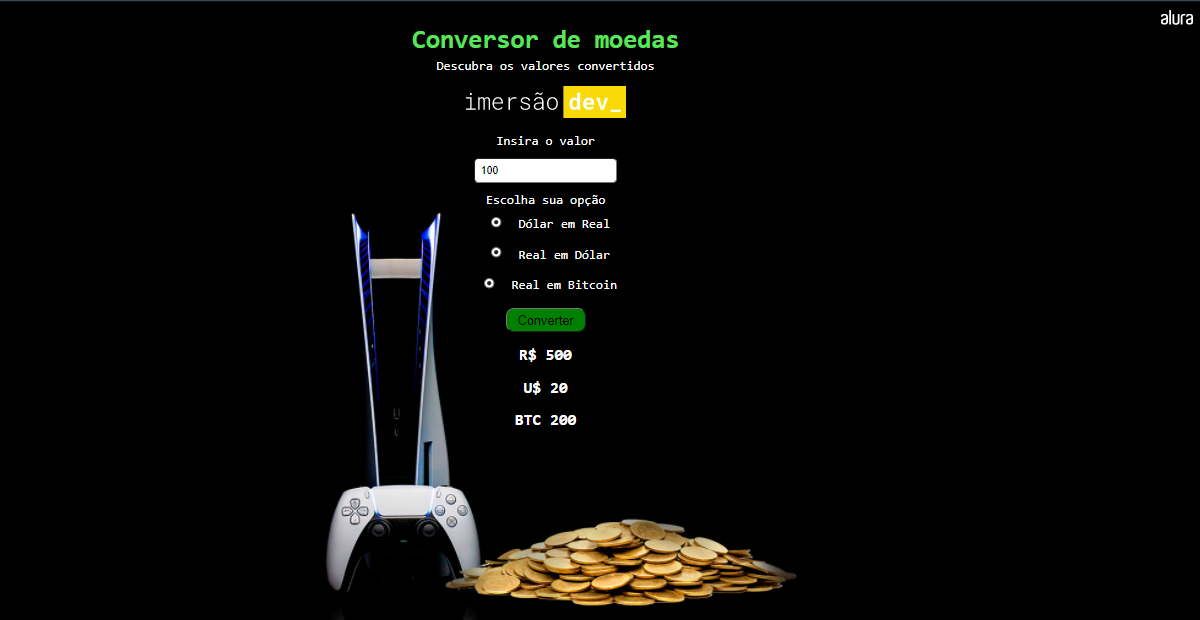
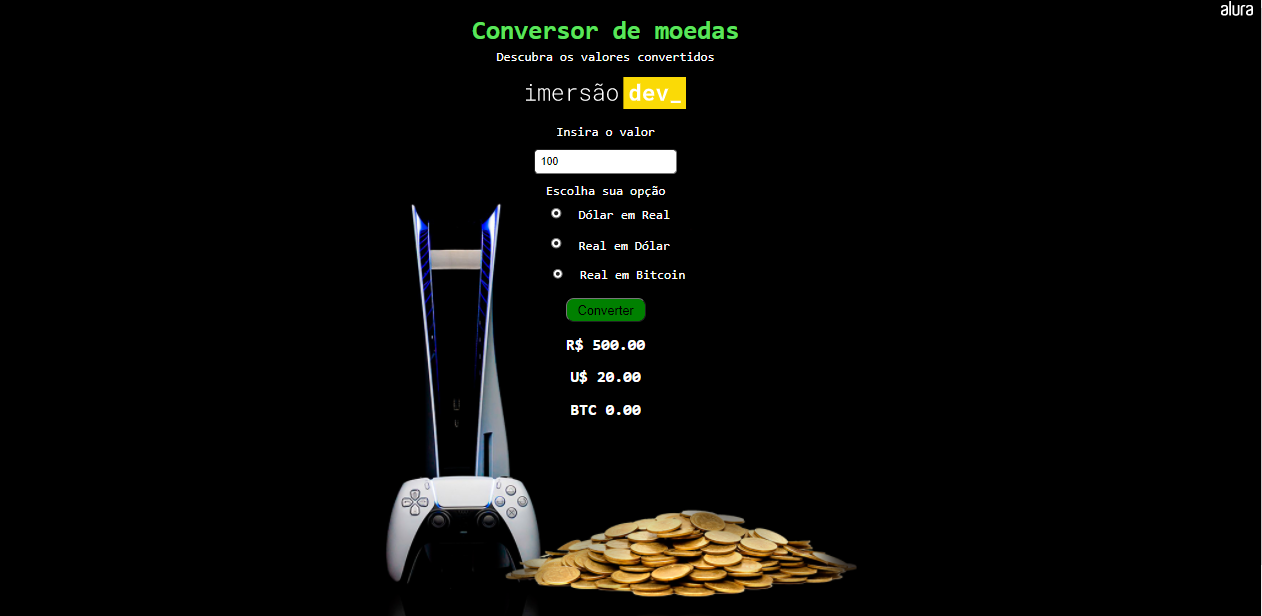
commit

Changed region(s): [[0.2467, 0.0308, 0.6783, 1.0], [0.9558, 0.0, 1.0, 0.0617]]

diff --git a/desafios/conversorMoedas/app.js b/desafios/conversorMoedas/app.js
@@ -13,7 +13,7 @@ function Converter() {
     if(opcao != null) {
       var realEmDolar = valor * 5;
       var elementoValorConvertido = document.getElementById("valorConvertidoReal");
-      elementoValorConvertido.innerHTML = "R$ " + realEmDolar;
+      elementoValorConvertido.innerHTML = "R$ " + realEmDolar.toFixed(2);
     }
   }
 
@@ -21,15 +21,15 @@ function Converter() {
     if(opcao != null) {
       var DolarEmReal = valor / 5;
       var elementoValorConvertido = document.getElementById("valorConvertidoDolar");
-      elementoValorConvertido.innerHTML = "U$ " + DolarEmReal;
+      elementoValorConvertido.innerHTML = "U$ " + DolarEmReal.toFixed(2);
     }
   }
 
   function ConverterRealBitcoin(valor, opcao) {
     if(opcao != null) {
-      var realEmBitcoin = valor * 2;
+      var realEmBitcoin = valor * 0.0000050;
       var elementoValorConvertido = document.getElementById("valorConvertidoBitcoin");
-      elementoValorConvertido.innerHTML = "BTC " + realEmBitcoin;
+      elementoValorConvertido.innerHTML = "BTC " + realEmBitcoin.toFixed(2);
     }
   }
 

diff --git a/desafios/conversorMoedas/index.html b/desafios/conversorMoedas/index.html
@@ -32,9 +32,9 @@
           </label>
           <br>
 
-          <input class="form-check-input" type="radio" name="realBitcoin" id="realBitcoin">
+          <input class="form-check-input-bitcoin" type="radio" name="realBitcoin" id="realBitcoin">
           <label class="form-check-label" for="realBitcoin">
-           Real em Bitcoin
+          Real em Bitcoin
           </label>
         </div>      
         

diff --git a/desafios/conversorMoedas/style.css b/desafios/conversorMoedas/style.css
@@ -70,6 +70,11 @@ body {
   }
 
   .form-check-label {
-    font-size: 16px;
-   
+    font-size: 16px;    
   }
+
+  .form-check-input-bitcoin {
+    margin-left: 34px;
+  }
+
+  
